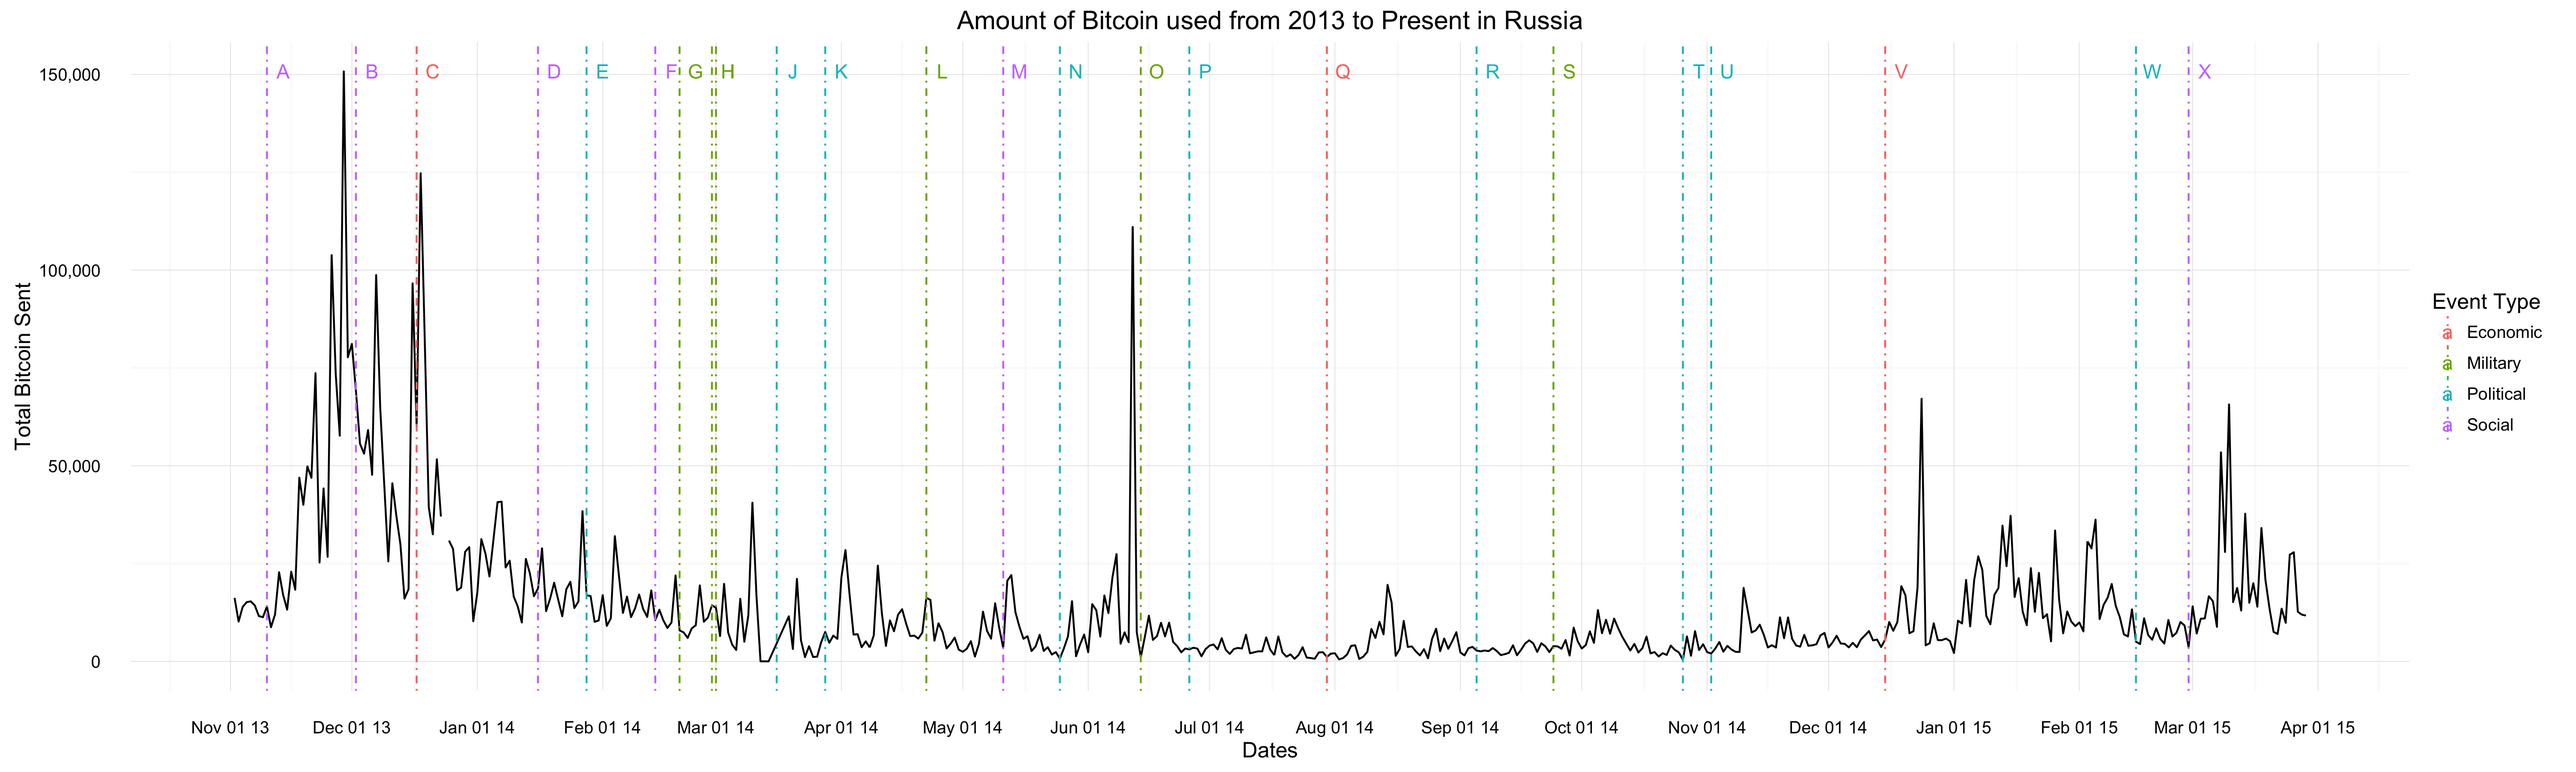
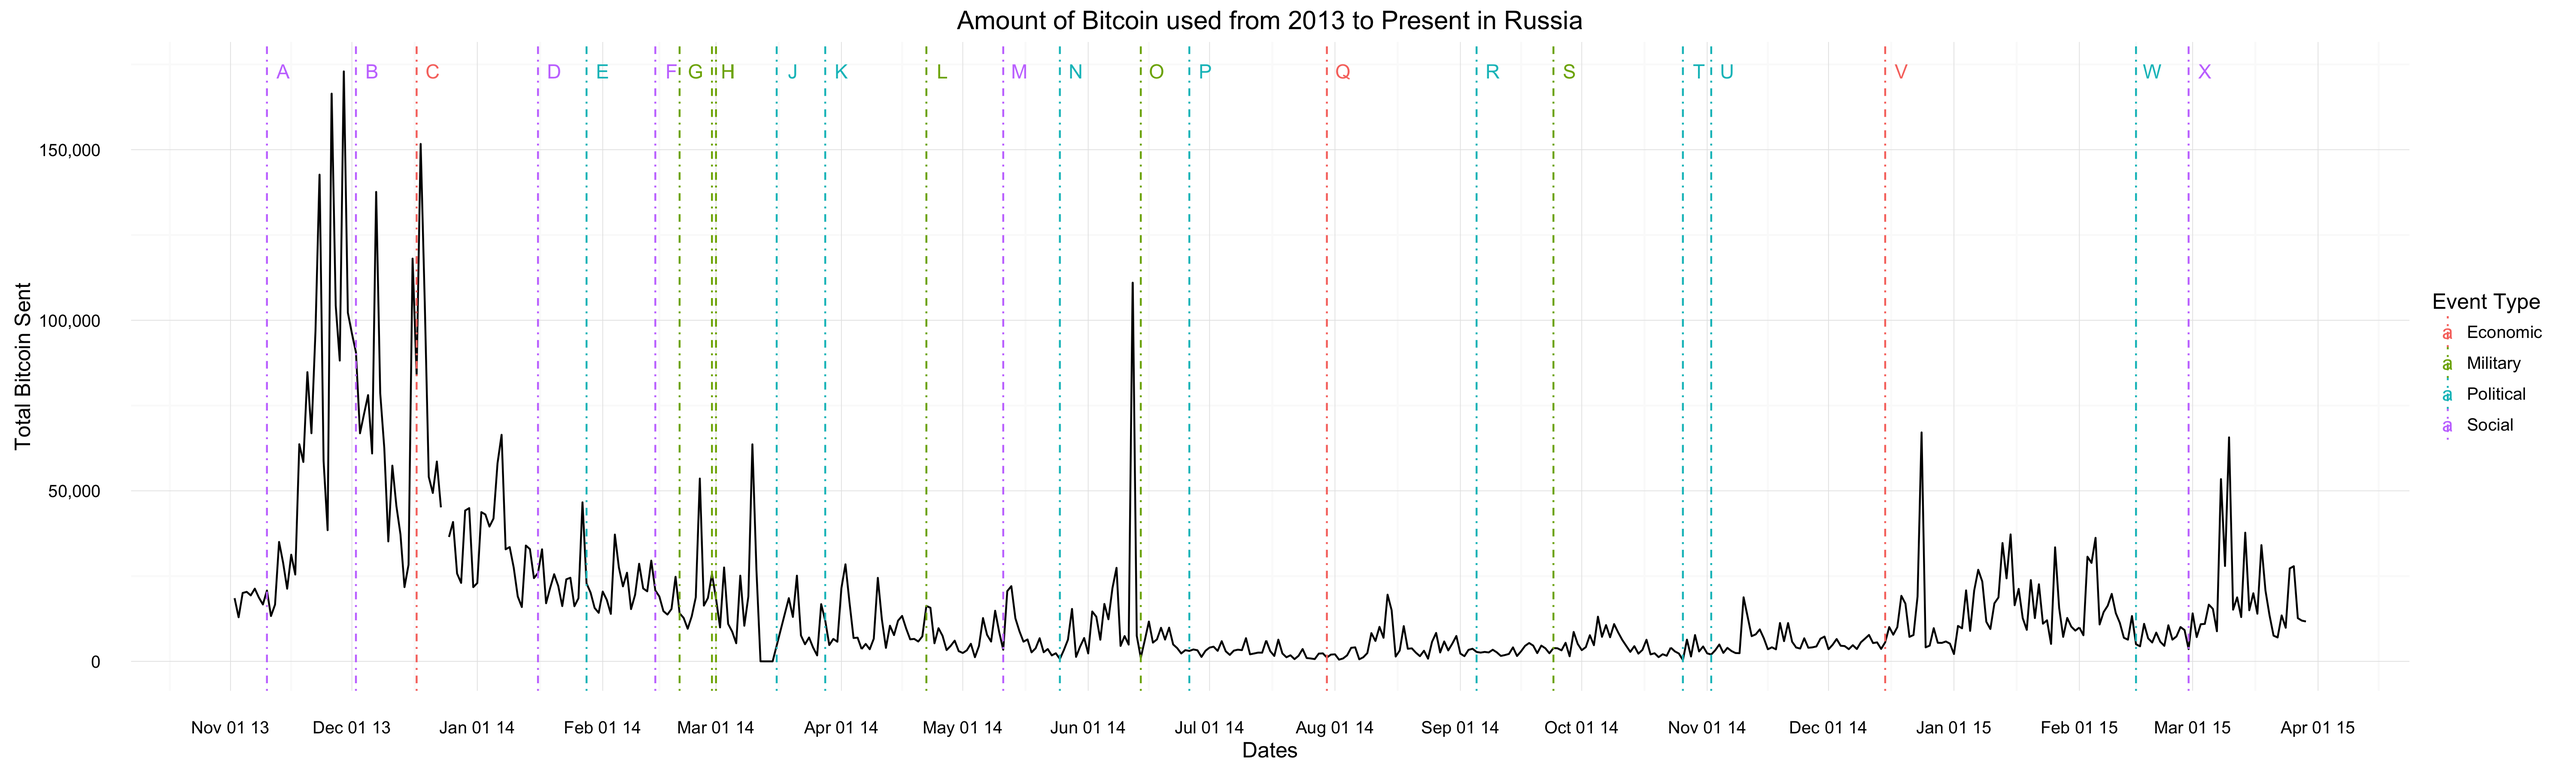
fixed spelling errors

diff --git a/blocks_downloader.py b/blocks_downloader.py
@@ -2,11 +2,11 @@ import requests
 import json
 from datetime import datetime, date, time, timedelta
 
-startYear = 2015
-startDay = 29;
-startMonth = 03;
+startYear = 2013
+startDay = 1;
+startMonth = 11;
 
-numberOfDays = 140;
+numberOfDays = 180;
 
 data = {
     'blocks': list()
